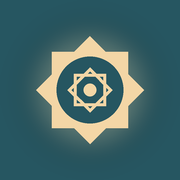
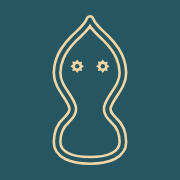
Add files via upload

Changed region(s): [[0.1944, 0.0833, 0.8056, 0.9167]]

diff --git a/index.html b/index.html
@@ -303,6 +303,9 @@ textarea{min-height:96px;resize:vertical}
 .notif .t{flex:1;min-width:0}
 .notif small{display:block;color:var(--muted);font-size:12px}
 .hud-rng{display:flex;flex-wrap:wrap;align-items:center;gap:8px 10px;margin-top:10px}
+.rtabs{display:grid;grid-template-columns:repeat(3,1fr);gap:4px;background:var(--chip);border-radius:12px;padding:4px;margin:0 0 16px}
+.rtabs button{border:0;background:none;color:var(--chip-ink);font-family:var(--f);font-size:14px;padding:9px 4px;border-radius:9px;cursor:pointer}
+.rtabs button.on{background:var(--card);color:var(--ink);font-weight:600;box-shadow:0 1px 4px rgba(23,63,72,.12)}
 .mh-card .mh-q{display:block;font-weight:600;margin:6px 0 6px;color:var(--ink)}
 .mh-card textarea{min-height:84px}
 .mh-past{border-top:1px solid var(--card-line);padding:10px 14px}.mh-past:first-child{border-top:0}
@@ -404,6 +407,9 @@ document.documentElement.setAttribute('dir','rtl');
 const ADHKAR={"open": {"k": "d", "t": "اللَّهُمَّ صَلِّ عَلَى مُحَمَّدٍ وَعَلَى آلِ مُحَمَّدٍ، كَمَا صَلَّيْتَ عَلَى إِبْرَاهِيمَ وَعَلَى آلِ إِبْرَاهِيمَ؛ إِنَّكَ حَمِيدٌ مَجِيدٌ، اللَّهُمَّ بَارِكْ عَلَى مُحَمَّدٍ وَعَلَى آلِ مُحَمَّدٍ، كَمَا بَارَكْتَ عَلَى إِبْرَاهِيمَ وَعَلَى آلِ إِبْرَاهِيمَ؛ إِنَّكَ حَمِيدٌ مَجِيدٌ", "n": 10, "s": "الاستهلال بالصلاة الإبراهيمية"}, "quran": [{"k": "q", "t": "بِسۡمِ ٱللَّهِ ٱلرَّحۡمَٰنِ ٱلرَّحِيمِ <span class=\"ay\">﴿1﴾</span> ٱلۡحَمۡدُ لِلَّهِ رَبِّ ٱلۡعَٰلَمِينَ <span class=\"ay\">﴿2﴾</span> ٱلرَّحۡمَٰنِ ٱلرَّحِيمِ <span class=\"ay\">﴿3﴾</span> مَٰلِكِ يَوۡمِ ٱلدِّينِ <span class=\"ay\">﴿4﴾</span> إِيَّاكَ نَعۡبُدُ وَإِيَّاكَ نَسۡتَعِينُ <span class=\"ay\">﴿5﴾</span> ٱهۡدِنَا ٱلصِّرَٰطَ ٱلۡمُسۡتَقِيمَ <span class=\"ay\">﴿6﴾</span> صِرَٰطَ ٱلَّذِينَ أَنۡعَمۡتَ عَلَيۡهِمۡ غَيۡرِ ٱلۡمَغۡضُوبِ عَلَيۡهِمۡ وَلَا ٱلضَّآلِّينَ <span class=\"ay\">﴿7﴾</span>", "n": 1, "s": "سورة الفاتحة"}, {"k": "q", "t": "<span class=\"bas\">بِسۡمِ ٱللَّهِ ٱلرَّحۡمَٰنِ ٱلرَّحِيمِ</span>الٓمٓ <span class=\"ay\">﴿1﴾</span> ذَٰلِكَ ٱلۡكِتَٰبُ لَا رَيۡبَۛ فِيهِۛ هُدٗى لِّلۡمُتَّقِينَ <span class=\"ay\">﴿2﴾</span> ٱلَّذِينَ يُؤۡمِنُونَ بِٱلۡغَيۡبِ وَيُقِيمُونَ ٱلصَّلَوٰةَ وَمِمَّا رَزَقۡنَٰهُمۡ يُنفِقُونَ <span class=\"ay\">﴿3﴾</span> وَٱلَّذِينَ يُؤۡمِنُونَ بِمَآ أُنزِلَ إِلَيۡكَ وَمَآ أُنزِلَ مِن قَبۡلِكَ وَبِٱلۡأٓخِرَةِ هُمۡ يُوقِنُونَ <span class=\"ay\">﴿4﴾</span> أُوْلَـٰٓئِكَ عَلَىٰ هُدٗى مِّن رَّبِّهِمۡۖ وَأُوْلَـٰٓئِكَ هُمُ ٱلۡمُفۡلِحُونَ <span class=\"ay\">﴿5﴾</span>", "n": 1, "s": "البقرة 1–5"}, {"k": "q", "t": "ٱللَّهُ لَآ إِلَٰهَ إِلَّا هُوَ ٱلۡحَيُّ ٱلۡقَيُّومُۚ لَا تَأۡخُذُهُۥ سِنَةٞ وَلَا نَوۡمٞۚ لَّهُۥ مَا فِي ٱلسَّمَٰوَٰتِ وَمَا فِي ٱلۡأَرۡضِۗ مَن ذَا ٱلَّذِي يَشۡفَعُ عِندَهُۥٓ إِلَّا بِإِذۡنِهِۦۚ يَعۡلَمُ مَا بَيۡنَ أَيۡدِيهِمۡ وَمَا خَلۡفَهُمۡۖ وَلَا يُحِيطُونَ بِشَيۡءٖ مِّنۡ عِلۡمِهِۦٓ إِلَّا بِمَا شَآءَۚ وَسِعَ كُرۡسِيُّهُ ٱلسَّمَٰوَٰتِ وَٱلۡأَرۡضَۖ وَلَا يَـُٔودُهُۥ حِفۡظُهُمَاۚ وَهُوَ ٱلۡعَلِيُّ ٱلۡعَظِيمُ <span class=\"ay\">﴿255﴾</span> لَآ إِكۡرَاهَ فِي ٱلدِّينِۖ قَد تَّبَيَّنَ ٱلرُّشۡدُ مِنَ ٱلۡغَيِّۚ فَمَن يَكۡفُرۡ بِٱلطَّـٰغُوتِ وَيُؤۡمِنۢ بِٱللَّهِ فَقَدِ ٱسۡتَمۡسَكَ بِٱلۡعُرۡوَةِ ٱلۡوُثۡقَىٰ لَا ٱنفِصَامَ لَهَاۗ وَٱللَّهُ سَمِيعٌ عَلِيمٌ <span class=\"ay\">﴿256﴾</span> ٱللَّهُ وَلِيُّ ٱلَّذِينَ ءَامَنُواْ يُخۡرِجُهُم مِّنَ ٱلظُّلُمَٰتِ إِلَى ٱلنُّورِۖ وَٱلَّذِينَ كَفَرُوٓاْ أَوۡلِيَآؤُهُمُ ٱلطَّـٰغُوتُ يُخۡرِجُونَهُم مِّنَ ٱلنُّورِ إِلَى ٱلظُّلُمَٰتِۗ أُوْلَـٰٓئِكَ أَصۡحَٰبُ ٱلنَّارِۖ هُمۡ فِيهَا خَٰلِدُونَ <span class=\"ay\">﴿257﴾</span>", "n": 1, "s": "آية الكرسي والآيتان بعدها · البقرة 255–257"}, {"k": "q", "t": "لِّلَّهِ مَا فِي ٱلسَّمَٰوَٰتِ وَمَا فِي ٱلۡأَرۡضِۗ وَإِن تُبۡدُواْ مَا فِيٓ أَنفُسِكُمۡ أَوۡ تُخۡفُوهُ يُحَاسِبۡكُم بِهِ ٱللَّهُۖ فَيَغۡفِرُ لِمَن يَشَآءُ وَيُعَذِّبُ مَن يَشَآءُۗ وَٱللَّهُ عَلَىٰ كُلِّ شَيۡءٖ قَدِيرٌ <span class=\"ay\">﴿284﴾</span> ءَامَنَ ٱلرَّسُولُ بِمَآ أُنزِلَ إِلَيۡهِ مِن رَّبِّهِۦ وَٱلۡمُؤۡمِنُونَۚ كُلٌّ ءَامَنَ بِٱللَّهِ وَمَلَـٰٓئِكَتِهِۦ وَكُتُبِهِۦ وَرُسُلِهِۦ لَا نُفَرِّقُ بَيۡنَ أَحَدٖ مِّن رُّسُلِهِۦۚ وَقَالُواْ سَمِعۡنَا وَأَطَعۡنَاۖ غُفۡرَانَكَ رَبَّنَا وَإِلَيۡكَ ٱلۡمَصِيرُ <span class=\"ay\">﴿285﴾</span> لَا يُكَلِّفُ ٱللَّهُ نَفۡسًا إِلَّا وُسۡعَهَاۚ لَهَا مَا كَسَبَتۡ وَعَلَيۡهَا مَا ٱكۡتَسَبَتۡۗ رَبَّنَا لَا تُؤَاخِذۡنَآ إِن نَّسِينَآ أَوۡ أَخۡطَأۡنَاۚ رَبَّنَا وَلَا تَحۡمِلۡ عَلَيۡنَآ إِصۡرٗا كَمَا حَمَلۡتَهُۥ عَلَى ٱلَّذِينَ مِن قَبۡلِنَاۚ رَبَّنَا وَلَا تُحَمِّلۡنَا مَا لَا طَاقَةَ لَنَا بِهِۦۖ وَٱعۡفُ عَنَّا وَٱغۡفِرۡ لَنَا وَٱرۡحَمۡنَآۚ أَنتَ مَوۡلَىٰنَا فَٱنصُرۡنَا عَلَى ٱلۡقَوۡمِ ٱلۡكَٰفِرِينَ <span class=\"ay\">﴿286﴾</span>", "n": 1, "s": "خواتيم البقرة · 284–286"}, {"k": "q", "t": "شَهِدَ ٱللَّهُ أَنَّهُۥ لَآ إِلَٰهَ إِلَّا هُوَ وَٱلۡمَلَـٰٓئِكَةُ وَأُوْلُواْ ٱلۡعِلۡمِ قَآئِمَۢا بِٱلۡقِسۡطِۚ لَآ إِلَٰهَ إِلَّا هُوَ ٱلۡعَزِيزُ ٱلۡحَكِيمُ <span class=\"ay\">﴿18﴾</span> إِنَّ ٱلدِّينَ عِندَ ٱللَّهِ ٱلۡإِسۡلَٰمُۗ <span class=\"ay\">…</span>", "n": 1, "s": "آل عمران 18–19"}, {"k": "q", "t": "حَسۡبِيَ ٱللَّهُ لَآ إِلَٰهَ إِلَّا هُوَۖ عَلَيۡهِ تَوَكَّلۡتُۖ وَهُوَ رَبُّ ٱلۡعَرۡشِ ٱلۡعَظِيمِ <span class=\"ay\">﴿129﴾</span>", "n": 7, "s": "التوبة 129"}, {"k": "q", "t": "قُلِ ٱدۡعُواْ ٱللَّهَ أَوِ ٱدۡعُواْ ٱلرَّحۡمَٰنَۖ أَيّٗا مَّا تَدۡعُواْ فَلَهُ ٱلۡأَسۡمَآءُ ٱلۡحُسۡنَىٰۚ وَلَا تَجۡهَرۡ بِصَلَاتِكَ وَلَا تُخَافِتۡ بِهَا وَٱبۡتَغِ بَيۡنَ ذَٰلِكَ سَبِيلٗا <span class=\"ay\">﴿110﴾</span> وَقُلِ ٱلۡحَمۡدُ لِلَّهِ ٱلَّذِي لَمۡ يَتَّخِذۡ وَلَدٗا وَلَمۡ يَكُن لَّهُۥ شَرِيكٞ فِي ٱلۡمُلۡكِ وَلَمۡ يَكُن لَّهُۥ وَلِيّٞ مِّنَ ٱلذُّلِّۖ وَكَبِّرۡهُ تَكۡبِيرَۢا <span class=\"ay\">﴿111﴾</span>", "n": 3, "s": "الإسراء 110–111"}, {"k": "q", "t": "أَفَحَسِبۡتُمۡ أَنَّمَا خَلَقۡنَٰكُمۡ عَبَثٗا وَأَنَّكُمۡ إِلَيۡنَا لَا تُرۡجَعُونَ <span class=\"ay\">﴿115﴾</span> فَتَعَٰلَى ٱللَّهُ ٱلۡمَلِكُ ٱلۡحَقُّۖ لَآ إِلَٰهَ إِلَّا هُوَ رَبُّ ٱلۡعَرۡشِ ٱلۡكَرِيمِ <span class=\"ay\">﴿116﴾</span> وَمَن يَدۡعُ مَعَ ٱللَّهِ إِلَٰهًا ءَاخَرَ لَا بُرۡهَٰنَ لَهُۥ بِهِۦ فَإِنَّمَا حِسَابُهُۥ عِندَ رَبِّهِۦٓۚ إِنَّهُۥ لَا يُفۡلِحُ ٱلۡكَٰفِرُونَ <span class=\"ay\">﴿117﴾</span> وَقُل رَّبِّ ٱغۡفِرۡ وَٱرۡحَمۡ وَأَنتَ خَيۡرُ ٱلرَّـٰحِمِينَ <span class=\"ay\">﴿118﴾</span>", "n": 1, "s": "المؤمنون 115–118"}, {"k": "q", "t": "فَسُبۡحَٰنَ ٱللَّهِ حِينَ تُمۡسُونَ وَحِينَ تُصۡبِحُونَ <span class=\"ay\">﴿17﴾</span> وَلَهُ ٱلۡحَمۡدُ فِي ٱلسَّمَٰوَٰتِ وَٱلۡأَرۡضِ وَعَشِيّٗا وَحِينَ تُظۡهِرُونَ <span class=\"ay\">﴿18﴾</span> يُخۡرِجُ ٱلۡحَيَّ مِنَ ٱلۡمَيِّتِ وَيُخۡرِجُ ٱلۡمَيِّتَ مِنَ ٱلۡحَيِّ وَيُحۡيِ ٱلۡأَرۡضَ بَعۡدَ مَوۡتِهَاۚ وَكَذَٰلِكَ تُخۡرَجُونَ <span class=\"ay\">﴿19﴾</span>", "n": 3, "s": "الروم 17–19"}, {"k": "q", "t": "<span class=\"bas\">بِسۡمِ ٱللَّهِ ٱلرَّحۡمَٰنِ ٱلرَّحِيمِ</span>حمٓ <span class=\"ay\">﴿1﴾</span> تَنزِيلُ ٱلۡكِتَٰبِ مِنَ ٱللَّهِ ٱلۡعَزِيزِ ٱلۡعَلِيمِ <span class=\"ay\">﴿2﴾</span> غَافِرِ ٱلذَّنۢبِ وَقَابِلِ ٱلتَّوۡبِ شَدِيدِ ٱلۡعِقَابِ ذِي ٱلطَّوۡلِۖ لَآ إِلَٰهَ إِلَّا هُوَۖ إِلَيۡهِ ٱلۡمَصِيرُ <span class=\"ay\">﴿3﴾</span>", "n": 3, "s": "غافر 1–3"}, {"k": "q", "t": "ٱللَّهُ لَآ إِلَٰهَ إِلَّا هُوَ ٱلۡحَيُّ ٱلۡقَيُّومُۚ لَا تَأۡخُذُهُۥ سِنَةٞ وَلَا نَوۡمٞۚ لَّهُۥ مَا فِي ٱلسَّمَٰوَٰتِ وَمَا فِي ٱلۡأَرۡضِۗ مَن ذَا ٱلَّذِي يَشۡفَعُ عِندَهُۥٓ إِلَّا بِإِذۡنِهِۦۚ يَعۡلَمُ مَا بَيۡنَ أَيۡدِيهِمۡ وَمَا خَلۡفَهُمۡۖ وَلَا يُحِيطُونَ بِشَيۡءٖ مِّنۡ عِلۡمِهِۦٓ إِلَّا بِمَا شَآءَۚ وَسِعَ كُرۡسِيُّهُ ٱلسَّمَٰوَٰتِ وَٱلۡأَرۡضَۖ وَلَا يَـُٔودُهُۥ حِفۡظُهُمَاۚ وَهُوَ ٱلۡعَلِيُّ ٱلۡعَظِيمُ <span class=\"ay\">﴿255﴾</span>", "n": 1, "s": "آية الكرسي · البقرة 255"}, {"k": "d", "t": "أَعُوذُ بِاللَّهِ السَّمِيعِ الْعَلِيمِ مِنَ الشَّيْطَانِ الرَّجِيمِ", "n": 3, "s": "الاستعاذة"}, {"k": "q", "t": "هُوَ ٱللَّهُ ٱلَّذِي لَآ إِلَٰهَ إِلَّا هُوَۖ عَٰلِمُ ٱلۡغَيۡبِ وَٱلشَّهَٰدَةِۖ هُوَ ٱلرَّحۡمَٰنُ ٱلرَّحِيمُ <span class=\"ay\">﴿22﴾</span> هُوَ ٱللَّهُ ٱلَّذِي لَآ إِلَٰهَ إِلَّا هُوَ ٱلۡمَلِكُ ٱلۡقُدُّوسُ ٱلسَّلَٰمُ ٱلۡمُؤۡمِنُ ٱلۡمُهَيۡمِنُ ٱلۡعَزِيزُ ٱلۡجَبَّارُ ٱلۡمُتَكَبِّرُۚ سُبۡحَٰنَ ٱللَّهِ عَمَّا يُشۡرِكُونَ <span class=\"ay\">﴿23﴾</span> هُوَ ٱللَّهُ ٱلۡخَٰلِقُ ٱلۡبَارِئُ ٱلۡمُصَوِّرُۖ لَهُ ٱلۡأَسۡمَآءُ ٱلۡحُسۡنَىٰۚ يُسَبِّحُ لَهُۥ مَا فِي ٱلسَّمَٰوَٰتِ وَٱلۡأَرۡضِۖ وَهُوَ ٱلۡعَزِيزُ ٱلۡحَكِيمُ <span class=\"ay\">﴿24﴾</span>", "n": 1, "s": "الحشر 22–24"}, {"k": "q", "t": "<span class=\"sn\">سورة الإخلاص</span><span class=\"bas\">بِسۡمِ ٱللَّهِ ٱلرَّحۡمَٰنِ ٱلرَّحِيمِ</span>قُلۡ هُوَ ٱللَّهُ أَحَدٌ <span class=\"ay\">﴿1﴾</span> ٱللَّهُ ٱلصَّمَدُ <span class=\"ay\">﴿2﴾</span> لَمۡ يَلِدۡ وَلَمۡ يُولَدۡ <span class=\"ay\">﴿3﴾</span> وَلَمۡ يَكُن لَّهُۥ كُفُوًا أَحَدُۢ <span class=\"ay\">﴿4﴾</span><br><span class=\"sn\">سورة الفلق</span><span class=\"bas\">بِسۡمِ ٱللَّهِ ٱلرَّحۡمَٰنِ ٱلرَّحِيمِ</span>قُلۡ أَعُوذُ بِرَبِّ ٱلۡفَلَقِ <span class=\"ay\">﴿1﴾</span> مِن شَرِّ مَا خَلَقَ <span class=\"ay\">﴿2﴾</span> وَمِن شَرِّ غَاسِقٍ إِذَا وَقَبَ <span class=\"ay\">﴿3﴾</span> وَمِن شَرِّ ٱلنَّفَّـٰثَٰتِ فِي ٱلۡعُقَدِ <span class=\"ay\">﴿4﴾</span> وَمِن شَرِّ حَاسِدٍ إِذَا حَسَدَ <span class=\"ay\">﴿5﴾</span><br><span class=\"sn\">سورة الناس</span><span class=\"bas\">بِسۡمِ ٱللَّهِ ٱلرَّحۡمَٰنِ ٱلرَّحِيمِ</span>قُلۡ أَعُوذُ بِرَبِّ ٱلنَّاسِ <span class=\"ay\">﴿1﴾</span> مَلِكِ ٱلنَّاسِ <span class=\"ay\">﴿2﴾</span> إِلَٰهِ ٱلنَّاسِ <span class=\"ay\">﴿3﴾</span> مِن شَرِّ ٱلۡوَسۡوَاسِ ٱلۡخَنَّاسِ <span class=\"ay\">﴿4﴾</span> ٱلَّذِي يُوَسۡوِسُ فِي صُدُورِ ٱلنَّاسِ <span class=\"ay\">﴿5﴾</span> مِنَ ٱلۡجِنَّةِ وَٱلنَّاسِ <span class=\"ay\">﴿6﴾</span>", "n": 3, "s": "المعوّذات: الإخلاص والفلق والناس"}], "sabah": [{"k": "s", "t": "رَضِيتُ بِاللَّهِ رَبًّا، وَبِالْإِسْلَامِ دِينًا، وَبِمُحَمَّدٍ ﷺ نَبِيًّا", "n": 3}, {"k": "s", "t": "بِسْمِ اللَّهِ الَّذِي لَا يَضُرُّ مَعَ اسْمِهِ شَيْءٌ فِي الْأَرْضِ وَلَا فِي السَّمَاءِ، وَهُوَ السَّمِيعُ الْعَلِيمُ", "n": 3}, {"k": "s", "t": "اللَّهُمَّ أَنْتَ رَبِّي لَا إِلَهَ إِلَّا أَنْتَ، عَلَيْكَ تَوَكَّلْتُ، وَأَنْتَ رَبُّ الْعَرْشِ الْعَظِيمِ، مَا شَاءَ اللَّهُ كَانَ وَمَا لَمْ يَشَأْ لَمْ يَكُنْ، لَا حَوْلَ وَلَا قُوَّةَ إِلَّا بِاللَّهِ الْعَلِيِّ الْعَظِيمِ، أَعْلَمُ أَنَّ اللَّهَ عَلَى كُلِّ شَيْءٍ قَدِيرٌ، وَأَنَّ اللَّهَ قَدْ أَحَاطَ بِكُلِّ شَيْءٍ عِلْمًا، اللَّهُمَّ إِنِّي أَعُوذُ بِكَ مِنْ شَرِّ نَفْسِي، وَمِنْ شَرِّ كُلِّ دَابَّةٍ أَنْتَ آخِذٌ بِنَاصِيَتِهَا، إِنَّ رَبِّي عَلَى صِرَاطٍ مُسْتَقِيمٍ", "n": 1}, {"k": "s", "t": "أَصْبَحْنَا وَأَصْبَحَ الْمُلْكُ لِلَّهِ وَالْحَمْدُ لِلَّهِ، لَا إِلَهَ إِلَّا اللَّهُ وَحْدَهُ لَا شَرِيكَ لَهُ، لَهُ الْمُلْكُ وَلَهُ الْحَمْدُ وَهُوَ عَلَى كُلِّ شَيْءٍ قَدِيرٌ، رَبِّ أَسْأَلُكَ خَيْرَ مَا فِي هَذَا الْيَوْمِ وَخَيْرَ مَا بَعْدَهُ، وَأَعُوذُ بِكَ مِنْ شَرِّ مَا فِي هَذَا الْيَوْمِ وَشَرِّ مَا بَعْدَهُ، رَبِّ أَعُوذُ بِكَ مِنَ الْكَسَلِ وَسُوءِ الْكِبَرِ، رَبِّ أَعُوذُ بِكَ مِنْ عَذَابٍ فِي النَّارِ وَعَذَابٍ فِي الْقَبْرِ", "n": 3}, {"k": "s", "t": "أَصْبَحْنَا وَأَصْبَحَ الْمُلْكُ لِلَّهِ رَبِّ الْعَالَمِينَ، اللَّهُمَّ إِنِّي أَسْأَلُكَ خَيْرَ هَذَا الْيَوْمِ فَتْحَهُ وَنَصْرَهُ وَنُورَهُ وَبَرَكَتَهُ وَهُدَاهُ، وَأَعُوذُ بِكَ مِنْ شَرِّ مَا فِيهِ وَشَرِّ مَا بَعْدَهُ", "n": 3}, {"k": "s", "t": "اللَّهُمَّ بِكَ أَصْبَحْنَا، وَبِكَ أَمْسَيْنَا، وَبِكَ نَحْيَا، وَبِكَ نَمُوتُ، وَإِلَيْكَ النُّشُورُ", "n": 3}, {"k": "s", "t": "اللَّهُمَّ مَا أَصْبَحَ بِي مِنْ نِعْمَةٍ أَوْ بِأَحَدٍ مِنْ خَلْقِكَ فَمِنْكَ وَحْدَكَ لَا شَرِيكَ لَكَ، فَلَكَ الْحَمْدُ وَلَكَ الشُّكْرُ", "n": 3}, {"k": "s", "t": "اللَّهُمَّ إِنِّي أَصْبَحْتُ أُشْهِدُكَ وَأُشْهِدُ حَمَلَةَ عَرْشِكَ، وَمَلَائِكَتَكَ وَجَمِيعَ خَلْقِكَ، بِأَنَّكَ أَنْتَ اللَّهُ لَا إِلَهَ إِلَّا أَنْتَ وَحْدَكَ لَا شَرِيكَ لَكَ، وَأَنَّ مُحَمَّدًا عَبْدُكَ وَرَسُولُكَ", "n": 4}, {"k": "s", "t": "اللَّهُمَّ إِنِّي أَسْأَلُكَ الْعَفْوَ وَالْعَافِيَةَ فِي الدُّنْيَا وَالْآخِرَةِ، اللَّهُمَّ إِنِّي أَسْأَلُكَ الْعَفْوَ وَالْعَافِيَةَ فِي دِينِي وَدُنْيَايَ وَأَهْلِي وَمَالِي، اللَّهُمَّ اسْتُرْ عَوْرَاتِي، وَآمِنْ رَوْعَاتِي، اللَّهُمَّ احْفَظْنِي مِنْ بَيْنِ يَدَيَّ، وَمِنْ خَلْفِي، وَعَنْ يَمِينِي، وَعَنْ شِمَالِي، وَمِنْ فَوْقِي، وَأَعُوذُ بِعَظَمَتِكَ أَنْ أُغْتَالَ مِنْ تَحْتِي", "n": 3}, {"k": "s", "t": "اللَّهُمَّ أَنْتَ رَبِّي لَا إِلَهَ إِلَّا أَنْتَ، خَلَقْتَنِي وَأَنَا عَبْدُكَ، وَأَنَا عَلَى عَهْدِكَ وَوَعْدِكَ مَا اسْتَطَعْتُ، أَعُوذُ بِكَ مِنْ شَرِّ مَا صَنَعْتُ، أَبُوءُ لَكَ بِنِعْمَتِكَ عَلَيَّ، وَأَبُوءُ لَكَ بِذَنْبِي فَاغْفِرْ لِي؛ فَإِنَّهُ لَا يَغْفِرُ الذُّنُوبَ إِلَّا أَنْتَ", "n": 3}, {"k": "s", "t": "أَصْبَحْنَا عَلَى فِطْرَةِ الْإِسْلَامِ، وَعَلَى كَلِمَةِ الْإِخْلَاصِ، وَعَلَى دِينِ نَبِيِّنَا مُحَمَّدٍ صَلَّى اللَّهُ عَلَيْهِ وَسَلَّمَ، وَعَلَى مِلَّةِ أَبِينَا إِبْرَاهِيمَ، حَنِيفًا مُسْلِمًا، وَمَا كَانَ مِنَ الْمُشْرِكِينَ", "n": 3}, {"k": "s", "t": "اللَّهُمَّ إِنِّي أَصْبَحْتُ مِنْكَ فِي نِعْمَةٍ وَعَافِيَةٍ وَسِتْرٍ، فَأَتْمِمْ عَلَيَّ نِعْمَتَكَ وَعَافِيَتَكَ وَسِتْرَكَ فِي الدُّنْيَا وَالْآخِرَةِ", "n": 3}, {"k": "s", "t": "اللَّهُمَّ فَاطِرَ السَّمَاوَاتِ وَالْأَرْضِ، عَالِمَ الْغَيْبِ وَالشَّهَادَةِ، لَا إِلَهَ إِلَّا أَنْتَ، رَبَّ كُلِّ شَيْءٍ وَمَلِيكَهُ، أَعُوذُ بِكَ مِنْ شَرِّ نَفْسِي وَمِنْ شَرِّ الشَّيْطَانِ وَشِرْكِهِ، وَأَنْ أَقْتَرِفَ عَلَى نَفْسِي سُوءًا أَوْ أَجُرَّهُ إِلَى مُسْلِمٍ", "n": 3}, {"k": "s", "t": "سُبْحَانَ اللَّهِ وَبِحَمْدِهِ عَدَدَ خَلْقِهِ، وَرِضَا نَفْسِهِ، وَزِنَةَ عَرْشِهِ، وَمِدَادَ كَلِمَاتِهِ", "n": 3}, {"k": "s", "t": "يَا رَبِّ لَكَ الْحَمْدُ كَمَا يَنْبَغِي لِجَلَالِ وَجْهِكَ وَلِعَظِيمِ سُلْطَانِكَ", "n": 3}, {"k": "s", "t": "يَا حَيُّ يَا قَيُّومُ بِرَحْمَتِكَ أَسْتَغِيثُ، أَصْلِحْ لِي شَأْنِي كُلَّهُ، وَلَا تَكِلْنِي إِلَى نَفْسِي طَرْفَةَ عَيْنٍ", "n": 3}, {"k": "s", "t": "سُبْحَانَكَ اللَّهُمَّ وَبِحَمْدِكَ، أَشْهَدُ أَنْ لَا إِلَهَ إِلَّا أَنْتَ، أَسْتَغْفِرُكَ وَأَتُوبُ إِلَيْكَ", "n": 3}, {"k": "s", "t": "اللَّهُمَّ عَافِنِي فِي بَدَنِي، اللَّهُمَّ عَافِنِي فِي سَمْعِي، اللَّهُمَّ عَافِنِي فِي بَصَرِي، لَا إِلَهَ إِلَّا أَنْتَ", "n": 3}, {"k": "s", "t": "اللَّهُمَّ إِنِّي أَعُوذُ بِكَ مِنَ الْكُفْرِ وَالْفَقْرِ، اللَّهُمَّ إِنِّي أَعُوذُ بِكَ مِنْ عَذَابِ الْقَبْرِ، لَا إِلَهَ إِلَّا أَنْتَ", "n": 3}, {"k": "s", "t": "اللَّهُمَّ أَلْهِمْنِي رُشْدِي، وَأَعِذْنِي مِنْ شَرِّ نَفْسِي", "n": 3}, {"k": "s", "t": "اللَّهُمَّ إِنِّي أَعُوذُ بِكَ مِنَ الْهَمِّ وَالْحَزَنِ، وَأَعُوذُ بِكَ مِنَ الْعَجْزِ وَالْكَسَلِ، وَأَعُوذُ بِكَ مِنَ الْجُبْنِ وَالْبُخْلِ، وَأَعُوذُ بِكَ مِنْ غَلَبَةِ الدَّيْنِ، وَقَهْرِ الرِّجَالِ", "n": 3}, {"k": "s", "t": "اللَّهُمَّ إِنِّي أَعُوذُ بِكَ أَنْ أُشْرِكَ بِكَ وَأَنَا أَعْلَمُ، وَأَسْتَغْفِرُكَ لِمَا لَا أَعْلَمُ", "n": 3}, {"k": "s", "t": "سُبْحَانَ اللَّهِ الْعَظِيمِ وَبِحَمْدِهِ، وَلَا حَوْلَ وَلَا قُوَّةَ إِلَّا بِاللَّهِ", "n": 3}, {"k": "s", "t": "اللَّهُ أَكْبَرُ، اللَّهُ أَكْبَرُ، اللَّهُ أَكْبَرُ، بِسْمِ اللَّهِ عَلَى نَفْسِي وَدِينِي، بِسْمِ اللَّهِ عَلَى كُلِّ شَيْءٍ أَعْطَانِيهِ رَبِّي، بِسْمِ اللَّهِ خَيْرِ الْأَسْمَاءِ، بِسْمِ اللَّهِ الَّذِي لَا يَضُرُّ مَعَ اسْمِهِ شَيْءٌ فِي الْأَرْضِ وَلَا فِي السَّمَاءِ، بِسْمِ اللَّهِ افْتَتَحْتُ وَعَلَى اللَّهِ تَوَكَّلْتُ، اللَّهُ اللَّهُ رَبِّي لَا أُشْرِكُ بِهِ أَحَدًا، أَسْأَلُكَ اللَّهُمَّ بِخَيْرِكَ مِنْ خَيْرِكَ الَّذِي لَا يُعْطِيهِ أَحَدٌ غَيْرُكَ، عَزَّ جَارُكَ وَجَلَّ ثَنَاؤُكَ وَلَا إِلَهَ غَيْرُكَ، اجْعَلْنِي فِي عِيَاذِكَ مِنْ شَرِّ كُلِّ سُلْطَانٍ وَمِنَ الشَّيْطَانِ الرَّجِيمِ، اللَّهُمَّ إِنِّي أَحْتَرِسُ بِكَ مِنْ شَرِّ جَمِيعِ كُلِّ ذِي شَرٍّ خَلَقْتَهُ، وَأَحْتَرِزُ بِكَ مِنْهُمْ، وَأُقَدِّمُ بَيْنَ يَدَيَّ: بِسْمِ اللَّهِ الرَّحْمَنِ الرَّحِيمِ ﴿قُلْ هُوَ اللَّهُ أَحَدٌ * اللَّهُ الصَّمَدُ * لَمْ يَلِدْ وَلَمْ يُولَدْ * وَلَمْ يَكُنْ لَهُ كُفُوًا أَحَدٌ﴾، وَمِنْ خَلْفِي مِثْلَ ذَلِكَ، وَعَنْ يَمِينِي مِثْلَ ذَلِكَ، وَعَنْ يَسَارِي مِثْلَ ذَلِكَ، وَمِنْ فَوْقِي مِثْلَ ذَلِكَ", "n": 1}], "masa": [{"k": "s", "t": "رَضِيتُ بِاللَّهِ رَبًّا، وَبِالْإِسْلَامِ دِينًا، وَبِمُحَمَّدٍ ﷺ نَبِيًّا", "n": 3}, {"k": "s", "t": "بِسْمِ اللَّهِ الَّذِي لَا يَضُرُّ مَعَ اسْمِهِ شَيْءٌ فِي الْأَرْضِ وَلَا فِي السَّمَاءِ، وَهُوَ السَّمِيعُ الْعَلِيمُ", "n": 3}, {"k": "s", "t": "اللَّهُمَّ أَنْتَ رَبِّي لَا إِلَهَ إِلَّا أَنْتَ، عَلَيْكَ تَوَكَّلْتُ، وَأَنْتَ رَبُّ الْعَرْشِ الْعَظِيمِ، مَا شَاءَ اللَّهُ كَانَ وَمَا لَمْ يَشَأْ لَمْ يَكُنْ، لَا حَوْلَ وَلَا قُوَّةَ إِلَّا بِاللَّهِ الْعَلِيِّ الْعَظِيمِ، أَعْلَمُ أَنَّ اللَّهَ عَلَى كُلِّ شَيْءٍ قَدِيرٌ، وَأَنَّ اللَّهَ قَدْ أَحَاطَ بِكُلِّ شَيْءٍ عِلْمًا، اللَّهُمَّ إِنِّي أَعُوذُ بِكَ مِنْ شَرِّ نَفْسِي، وَمِنْ شَرِّ كُلِّ دَابَّةٍ أَنْتَ آخِذٌ بِنَاصِيَتِهَا، إِنَّ رَبِّي عَلَى صِرَاطٍ مُسْتَقِيمٍ", "n": 1}, {"k": "s", "t": "أَمْسَيْنَا وَأَمْسَى الْمُلْكُ لِلَّهِ وَالْحَمْدُ لِلَّهِ، لَا إِلَهَ إِلَّا اللَّهُ وَحْدَهُ لَا شَرِيكَ لَهُ، لَهُ الْمُلْكُ وَلَهُ الْحَمْدُ وَهُوَ عَلَى كُلِّ شَيْءٍ قَدِيرٌ، رَبِّ أَسْأَلُكَ خَيْرَ مَا فِي هَذِهِ اللَّيْلَةِ وَخَيْرَ مَا بَعْدَهَا، وَأَعُوذُ بِكَ مِنْ شَرِّ مَا فِي هَذِهِ اللَّيْلَةِ وَشَرِّ مَا بَعْدَهَا، رَبِّ أَعُوذُ بِكَ مِنَ الْكَسَلِ وَسُوءِ الْكِبَرِ، رَبِّ أَعُوذُ بِكَ مِنْ عَذَابٍ فِي النَّارِ وَعَذَابٍ فِي الْقَبْرِ", "n": 3}, {"k": "s", "t": "أَمْسَيْنَا وَأَمْسَى الْمُلْكُ لِلَّهِ رَبِّ الْعَالَمِينَ، اللَّهُمَّ إِنِّي أَسْأَلُكَ خَيْرَ هَذَا الْيَوْمِ فَتْحَهُ وَنَصْرَهُ وَنُورَهُ وَبَرَكَتَهُ وَهُدَاهُ، وَأَعُوذُ بِكَ مِنْ شَرِّ مَا فِيهِ وَشَرِّ مَا بَعْدَهُ", "n": 3}, {"k": "s", "t": "اللَّهُمَّ بِكَ أَمْسَيْنَا، وَبِكَ أَصْبَحْنَا، وَبِكَ نَحْيَا، وَبِكَ نَمُوتُ، وَإِلَيْكَ الْمَصِيرُ", "n": 3}, {"k": "s", "t": "اللَّهُمَّ مَا أَمْسَى بِي مِنْ نِعْمَةٍ أَوْ بِأَحَدٍ مِنْ خَلْقِكَ فَمِنْكَ وَحْدَكَ لَا شَرِيكَ لَكَ، فَلَكَ الْحَمْدُ وَلَكَ الشُّكْرُ", "n": 3}, {"k": "s", "t": "اللَّهُمَّ إِنِّي أَمْسَيْتُ أُشْهِدُكَ وَأُشْهِدُ حَمَلَةَ عَرْشِكَ، وَمَلَائِكَتَكَ وَجَمِيعَ خَلْقِكَ، بِأَنَّكَ أَنْتَ اللَّهُ لَا إِلَهَ إِلَّا أَنْتَ وَحْدَكَ لَا شَرِيكَ لَكَ، وَأَنَّ مُحَمَّدًا عَبْدُكَ وَرَسُولُكَ", "n": 4}, {"k": "s", "t": "اللَّهُمَّ إِنِّي أَسْأَلُكَ الْعَفْوَ وَالْعَافِيَةَ فِي الدُّنْيَا وَالْآخِرَةِ، اللَّهُمَّ إِنِّي أَسْأَلُكَ الْعَفْوَ وَالْعَافِيَةَ فِي دِينِي وَدُنْيَايَ وَأَهْلِي وَمَالِي، اللَّهُمَّ اسْتُرْ عَوْرَاتِي، وَآمِنْ رَوْعَاتِي، اللَّهُمَّ احْفَظْنِي مِنْ بَيْنِ يَدَيَّ، وَمِنْ خَلْفِي، وَعَنْ يَمِينِي، وَعَنْ شِمَالِي، وَمِنْ فَوْقِي، وَأَعُوذُ بِعَظَمَتِكَ أَنْ أُغْتَالَ مِنْ تَحْتِي", "n": 3}, {"k": "s", "t": "اللَّهُمَّ أَنْتَ رَبِّي لَا إِلَهَ إِلَّا أَنْتَ، خَلَقْتَنِي وَأَنَا عَبْدُكَ، وَأَنَا عَلَى عَهْدِكَ وَوَعْدِكَ مَا اسْتَطَعْتُ، أَعُوذُ بِكَ مِنْ شَرِّ مَا صَنَعْتُ، أَبُوءُ لَكَ بِنِعْمَتِكَ عَلَيَّ، وَأَبُوءُ لَكَ بِذَنْبِي فَاغْفِرْ لِي؛ فَإِنَّهُ لَا يَغْفِرُ الذُّنُوبَ إِلَّا أَنْتَ", "n": 3}, {"k": "s", "t": "أَمْسَيْنَا عَلَى فِطْرَةِ الْإِسْلَامِ، وَعَلَى كَلِمَةِ الْإِخْلَاصِ، وَعَلَى دِينِ نَبِيِّنَا مُحَمَّدٍ صَلَّى اللَّهُ عَلَيْهِ وَسَلَّمَ، وَعَلَى مِلَّةِ أَبِينَا إِبْرَاهِيمَ، حَنِيفًا مُسْلِمًا، وَمَا كَانَ مِنَ الْمُشْرِكِينَ", "n": 3}, {"k": "s", "t": "اللَّهُمَّ إِنِّي أَمْسَيْتُ مِنْكَ فِي نِعْمَةٍ وَعَافِيَةٍ وَسِتْرٍ، فَأَتْمِمْ عَلَيَّ نِعْمَتَكَ وَعَافِيَتَكَ وَسِتْرَكَ فِي الدُّنْيَا وَالْآخِرَةِ", "n": 3}, {"k": "s", "t": "اللَّهُمَّ فَاطِرَ السَّمَاوَاتِ وَالْأَرْضِ، عَالِمَ الْغَيْبِ وَالشَّهَادَةِ، لَا إِلَهَ إِلَّا أَنْتَ، رَبَّ كُلِّ شَيْءٍ وَمَلِيكَهُ، أَعُوذُ بِكَ مِنْ شَرِّ نَفْسِي وَمِنْ شَرِّ الشَّيْطَانِ وَشِرْكِهِ، وَأَنْ أَقْتَرِفَ عَلَى نَفْسِي سُوءًا أَوْ أَجُرَّهُ إِلَى مُسْلِمٍ", "n": 3}, {"k": "s", "t": "سُبْحَانَ اللَّهِ وَبِحَمْدِهِ عَدَدَ خَلْقِهِ، وَرِضَا نَفْسِهِ، وَزِنَةَ عَرْشِهِ، وَمِدَادَ كَلِمَاتِهِ", "n": 3}, {"k": "s", "t": "يَا رَبِّ لَكَ الْحَمْدُ كَمَا يَنْبَغِي لِجَلَالِ وَجْهِكَ وَلِعَظِيمِ سُلْطَانِكَ", "n": 3}, {"k": "s", "t": "يَا حَيُّ يَا قَيُّومُ بِرَحْمَتِكَ أَسْتَغِيثُ، أَصْلِحْ لِي شَأْنِي كُلَّهُ، وَلَا تَكِلْنِي إِلَى نَفْسِي طَرْفَةَ عَيْنٍ", "n": 3}, {"k": "s", "t": "سُبْحَانَكَ اللَّهُمَّ وَبِحَمْدِكَ، أَشْهَدُ أَنْ لَا إِلَهَ إِلَّا أَنْتَ، أَسْتَغْفِرُكَ وَأَتُوبُ إِلَيْكَ", "n": 3}, {"k": "s", "t": "اللَّهُمَّ عَافِنِي فِي بَدَنِي، اللَّهُمَّ عَافِنِي فِي سَمْعِي، اللَّهُمَّ عَافِنِي فِي بَصَرِي، لَا إِلَهَ إِلَّا أَنْتَ", "n": 3}, {"k": "s", "t": "اللَّهُمَّ إِنِّي أَعُوذُ بِكَ مِنَ الْكُفْرِ وَالْفَقْرِ، اللَّهُمَّ إِنِّي أَعُوذُ بِكَ مِنْ عَذَابِ الْقَبْرِ، لَا إِلَهَ إِلَّا أَنْتَ", "n": 3}, {"k": "s", "t": "اللَّهُمَّ أَلْهِمْنِي رُشْدِي، وَأَعِذْنِي مِنْ شَرِّ نَفْسِي", "n": 3}, {"k": "s", "t": "اللَّهُمَّ إِنِّي أَعُوذُ بِكَ مِنَ الْهَمِّ وَالْحَزَنِ، وَأَعُوذُ بِكَ مِنَ الْعَجْزِ وَالْكَسَلِ، وَأَعُوذُ بِكَ مِنَ الْجُبْنِ وَالْبُخْلِ، وَأَعُوذُ بِكَ مِنْ غَلَبَةِ الدَّيْنِ، وَقَهْرِ الرِّجَالِ", "n": 3}, {"k": "s", "t": "اللَّهُمَّ إِنِّي أَعُوذُ بِكَ أَنْ أُشْرِكَ بِكَ وَأَنَا أَعْلَمُ، وَأَسْتَغْفِرُكَ لِمَا لَا أَعْلَمُ", "n": 3}, {"k": "s", "t": "سُبْحَانَ اللَّهِ الْعَظِيمِ وَبِحَمْدِهِ، وَلَا حَوْلَ وَلَا قُوَّةَ إِلَّا بِاللَّهِ", "n": 3}, {"k": "s", "t": "اللَّهُ أَكْبَرُ، اللَّهُ أَكْبَرُ، اللَّهُ أَكْبَرُ، بِسْمِ اللَّهِ عَلَى نَفْسِي وَدِينِي، بِسْمِ اللَّهِ عَلَى كُلِّ شَيْءٍ أَعْطَانِيهِ رَبِّي، بِسْمِ اللَّهِ خَيْرِ الْأَسْمَاءِ، بِسْمِ اللَّهِ الَّذِي لَا يَضُرُّ مَعَ اسْمِهِ شَيْءٌ فِي الْأَرْضِ وَلَا فِي السَّمَاءِ، بِسْمِ اللَّهِ افْتَتَحْتُ وَعَلَى اللَّهِ تَوَكَّلْتُ، اللَّهُ اللَّهُ رَبِّي لَا أُشْرِكُ بِهِ أَحَدًا، أَسْأَلُكَ اللَّهُمَّ بِخَيْرِكَ مِنْ خَيْرِكَ الَّذِي لَا يُعْطِيهِ أَحَدٌ غَيْرُكَ، عَزَّ جَارُكَ وَجَلَّ ثَنَاؤُكَ وَلَا إِلَهَ غَيْرُكَ، اجْعَلْنِي فِي عِيَاذِكَ مِنْ شَرِّ كُلِّ سُلْطَانٍ وَمِنَ الشَّيْطَانِ الرَّجِيمِ، اللَّهُمَّ إِنِّي أَحْتَرِسُ بِكَ مِنْ شَرِّ جَمِيعِ كُلِّ ذِي شَرٍّ خَلَقْتَهُ، وَأَحْتَرِزُ بِكَ مِنْهُمْ، وَأُقَدِّمُ بَيْنَ يَدَيَّ: بِسْمِ اللَّهِ الرَّحْمَنِ الرَّحِيمِ ﴿قُلْ هُوَ اللَّهُ أَحَدٌ * اللَّهُ الصَّمَدُ * لَمْ يَلِدْ وَلَمْ يُولَدْ * وَلَمْ يَكُنْ لَهُ كُفُوًا أَحَدٌ﴾، وَمِنْ خَلْفِي مِثْلَ ذَلِكَ، وَعَنْ يَمِينِي مِثْلَ ذَلِكَ، وَعَنْ يَسَارِي مِثْلَ ذَلِكَ، وَمِنْ فَوْقِي مِثْلَ ذَلِكَ", "n": 1}], "verse": "فَٱصۡبِرۡ عَلَىٰ مَا يَقُولُونَ وَسَبِّحۡ بِحَمۡدِ رَبِّكَ قَبۡلَ طُلُوعِ ٱلشَّمۡسِ وَقَبۡلَ ٱلۡغُرُوبِ"};
 /* ---------- i18n: exact strings  [en, fr, es, ru] ---------- */
 const I18N_D={
+"بياناتك الروحية":["Your spiritual data", "Vos données spirituelles", "Tus datos espirituales", "Ваши духовные данные"],
+"الحالة اليومية":["Daily state", "État du jour", "Estado diario", "Состояние дня"],
+"حالة القلب":["The heart", "Le cœur", "El corazón", "Сердце"],
 "تثبيت التطبيق، والتذكيرات، والخصوصية، وراسلنا":["Install the app, reminders, privacy and contact", "Installation, rappels, confidentialité et contact", "Instalación, recordatorios, privacidad y contacto", "Установка, напоминания, конфиденциальность и связь"],
 "اكتب رسالتك…":["Write your message…", "Écrivez votre message…", "Escribe tu mensaje…", "Напишите сообщение…"],
 "مثال: حفظت لساني من الغيبة في مجلس العمل، وصليت الفجر في وقته…":["E.g. I kept my tongue from backbiting at work, and prayed Fajr on time…", "Ex. : j’ai préservé ma langue de la médisance au travail, et prié l’aube à l’heure…", "Ej.: guardé mi lengua de la murmuración en el trabajo y recé el Fajr a tiempo…", "Напр.: удержал язык от сплетен на работе и вовремя совершил фаджр…"],
@@ -980,6 +986,7 @@ const I18N_D={
 };
 /* patterns: [regex, [en,fr,es,ru]] — {1}… are groups; {1t} translates the group */
 const I18N_P=[
+[/^(\d+) من 4 أنوار مضيئة · (\d+) من (\d+) مجاري مغلقة$/,["{1} of 4 lights lit · {2} of {3} channels closed","{1} lumières sur 4 · {2} canaux sur {3} fermés","{1} de 4 luces encendidas · {2} de {3} canales cerrados","{1} из 4 огней · {2} из {3} каналов закрыто"]],
 [/^زلّة مسجّلة، منها (\d+) مع سببها$/,["slips logged, {1} with a reason", "faux pas notés, dont {1} avec raison", "tropiezos registrados, {1} con motivo", "оплошностей записано, из них {1} с причиной"]],
 [/^المراقبات والمناجاة · (\d+) واردات مدوّنة$/,["Muraqabat and munajat · {1} inspirations noted", "Mouraqabat et mounajat · {1} inspirations notées", "Muraqabat y munayat · {1} inspiraciones anotadas", "Муракабат и мунаджат · записей: {1}"]],
 [/^المراقبات · (\d+) واردات مدوّنة$/,["Muraqabat · {1} inspirations noted", "Mouraqabat · {1} inspirations notées", "Muraqabat · {1} inspiraciones anotadas", "Муракабат · записей: {1}"]],
@@ -1268,7 +1275,7 @@ function viewAuth(){
    <p class="auth-privacy">تُحفظ بياناتك وتقدّمك في حسابك على خوادم Google (Firebase)، ولا يطّلع عليها أحد غيرك، حتى إدارة التطبيق.</p>
   </section>`;
 }
-const LOGO='<svg viewBox="0 0 48 48" aria-hidden="true"><rect width="48" height="48" rx="12" fill="#265661"/><g fill="#f3d6a6"><path d="M24 7l4.6 6.4 7.8-1.2-1.2 7.8L41.6 24l-6.4 4.6 1.2 7.8-7.8-1.2L24 41.6l-4.6-6.4-7.8 1.2 1.2-7.8L6.4 24l6.4-4.6-1.2-7.8 7.8 1.2z"/></g><circle cx="24" cy="24" r="8" fill="#265661"/><circle cx="24" cy="24" r="3" fill="#f3d6a6"/></svg>';
+const LOGO='<svg viewBox="0 0 48 48" aria-hidden="true"><rect width="48" height="48" rx="12" fill="#265661"/><g transform="translate(11.04 3.68) scale(.2592)"><path d="M50,3 C53,11 60,16 68,24 C79,35 86,47 86,61 C86,77 72,87 69,99 C68,105 72,109 76,113 C83,119 86,127 86,137 C86,151 70,157 50,157 C30,157 14,151 14,137 C14,127 17,119 24,113 C28,109 32,105 31,99 C28,87 14,77 14,61 C14,47 21,35 32,24 C40,16 47,11 50,3 Z" fill="none" stroke="#f3d6a6" stroke-width="10" stroke-linejoin="round"/><path d="M50,3 C53,11 60,16 68,24 C79,35 86,47 86,61 C86,77 72,87 69,99 C68,105 72,109 76,113 C83,119 86,127 86,137 C86,151 70,157 50,157 C30,157 14,151 14,137 C14,127 17,119 24,113 C28,109 32,105 31,99 C28,87 14,77 14,61 C14,47 21,35 32,24 C40,16 47,11 50,3 Z" fill="none" stroke="#265661" stroke-width="4.4" stroke-linejoin="round"/><path transform="translate(36 54) scale(0.4261) translate(-24 -24)" d="M24 7l4.6 6.4 7.8-1.2-1.2 7.8L41.6 24l-6.4 4.6 1.2 7.8-7.8-1.2L24 41.6l-4.6-6.4-7.8 1.2 1.2-7.8L6.4 24l6.4-4.6-1.2-7.8 7.8 1.2z" fill="#f3d6a6"/><path transform="translate(64 54) scale(0.4261) translate(-24 -24)" d="M24 7l4.6 6.4 7.8-1.2-1.2 7.8L41.6 24l-6.4 4.6 1.2 7.8-7.8-1.2L24 41.6l-4.6-6.4-7.8 1.2 1.2-7.8L6.4 24l6.4-4.6-1.2-7.8 7.8 1.2z" fill="#f3d6a6"/><circle cx="36" cy="54" r="2.4" fill="#265661"/><circle cx="64" cy="54" r="2.4" fill="#265661"/></g></svg>';
 const GLOGO='<svg viewBox="0 0 48 48" width="20" height="20" aria-hidden="true"><path fill="#FFC107" d="M43.6 20.5H42V20H24v8h11.3C33.7 32.7 29.2 36 24 36c-6.6 0-12-5.4-12-12s5.4-12 12-12c3.1 0 5.8 1.2 7.9 3.1l5.7-5.7C34 6.1 29.3 4 24 4 12.9 4 4 12.9 4 24s8.9 20 20 20 20-8.9 20-20c0-1.3-.1-2.4-.4-3.5z"/><path fill="#FF3D00" d="M6.3 14.7l6.6 4.8C14.7 15.1 19 12 24 12c3.1 0 5.8 1.2 7.9 3.1l5.7-5.7C34 6.1 29.3 4 24 4 16.3 4 9.7 8.3 6.3 14.7z"/><path fill="#4CAF50" d="M24 44c5.2 0 9.9-2 13.4-5.2l-6.2-5.2C29.2 35.1 26.7 36 24 36c-5.2 0-9.6-3.3-11.3-8l-6.5 5C9.5 39.6 16.2 44 24 44z"/><path fill="#1976D2" d="M43.6 20.5H42V20H24v8h11.3c-.8 2.2-2.2 4.2-4.1 5.6l6.2 5.2C37 39.2 44 34 44 24c0-1.3-.1-2.4-.4-3.5z"/></svg>';
 async function authSubmit(){
   const v=id=>(document.getElementById(id)||{}).value||'';
@@ -1442,17 +1449,15 @@ const ARROW='<svg viewBox="0 0 16 16"><path d="M12 12 4 4M4 10V4h6"/></svg>';
 const MENU=[
  {id:'method',t:'المنهج المحمدي',ic:'<path d="M24 6l4.5 6.5L36 11l-1.5 7.5L41 24l-6.5 5.5L36 37l-7.5-1.5L24 42l-4.5-6.5L12 37l1.5-7.5L7 24l6.5-5.5L12 11l7.5 1.5z"/><path d="M18 24l6-6 6 6-6 6z"/>'},
  {id:'tazkiya',t:'التزكية',ic:'<path d="M14 40V22c0-2 3-2 3 0v-8c0-2 3-2 3 0v-2c0-2 3-2 3 0v14"/><path d="M34 40V22c0-2-3-2-3 0v-8c0-2-3-2-3 0v-2c0-2-3-2-3 0v14"/><path d="M12 40h11M25 40h11M14 44h9M25 44h9"/>'},
- {id:'sura',t:'حالة قلبك',ic:'<circle cx="24" cy="12" r="4.5"/><path d="M20 8.5c1-2 7-2 8 0"/><path d="M15 42V27c0-5 4-9 9-9s9 4 9 9v15"/><path d="M20 26l4 6 4-6"/>'},
- {id:'muraqabat',t:'حالتك الروحية اليومية',ic:'<circle cx="24" cy="11" r="4"/><path d="M16 42V26c0-5 3.5-9 8-9s8 4 8 9v16"/><path d="M19 28l5 4 5-4M24 32v10"/>'},
+ {id:'ruhi',t:'بياناتك الروحية',ic:'<circle cx="24" cy="12" r="4.5"/><path d="M20 8.5c1-2 7-2 8 0"/><path d="M15 42V27c0-5 4-9 9-9s9 4 9 9v15"/><path d="M20 26l4 6 4-6"/>'},
  {id:'aamal',t:'الأعمال',ic:'<path d="M8 36h32M10 36c0-5 4-7 8-7h6"/><circle cx="31" cy="25" r="3.5"/><path d="M24 29l5-1 7 5"/><rect x="34" y="31" width="8" height="5" rx="1"/>'},
- {id:'muhasaba',t:'محاسبة اليوم',ic:'<path d="M14 8h20v32H14z"/><path d="M19 16h10M19 22h10M19 28h6"/><path d="M27 33l3 3 6-7"/>'},
  {id:'taammulat',t:'تأملات',ic:'<circle cx="24" cy="20" r="9"/><path d="M24 11v-4M24 33v-4M15 20h-4M37 20h-4"/><path d="M10 41c3-5 8-8 14-8s11 3 14 8"/>'},
  {id:'admin',t:'لوحة الإدارة',ic:'<path d="M24 5l15 6v11c0 9.5-6.4 17.4-15 21-8.6-3.6-15-11.5-15-21V11z"/><path d="M17.5 24l4.5 4.5 8.5-9"/>'},
 ,
  {id:'about',t:'عن التطبيق',ic:'<circle cx="24" cy="24" r="16"/><path d="M24 22v10"/><circle cx="24" cy="16.5" r="1.2"/>'}
 ];
-const TITLES={method:'المنهج المحمدي',tazkiya:'التزكية',muraqabat:'حالتك الروحية اليومية',sura:'حالة قلبك',aamal:'الأعمال',dhikr_run:'الذكر الشخصي',adh_sabah:'أذكار الصباح',adh_masa:'أذكار المساء',install:'تثبيت التطبيق',notif:'التنبيهات',profile:'الملف الشخصي',admin:'لوحة الإدارة',taammulat:'تأملات',mraqib:'مراقبات',munajat:'مناجاة',muhasaba:'محاسبة اليوم',about:'عن التطبيق',tahlil:'تحليل الزلّات'};
-const VERSES={dhikr_run:'﴿أَلَا بِذِكْرِ اللَّهِ تَطْمَئِنُّ الْقُلُوبُ﴾',adh_sabah:'﴿'+ADHKAR.verse.slice(ADHKAR.verse.indexOf('وَسَ'))+'﴾',adh_masa:'﴿'+ADHKAR.verse.slice(ADHKAR.verse.indexOf('وَسَ'))+'﴾',install:'﴿وَمَا تَوْفِيقِي إِلَّا بِاللَّهِ﴾',method:'«أن تعبد الله كأنك تراه»',tazkiya:'﴿قَدْ أَفْلَحَ مَن زَكَّاهَا﴾',muraqabat:'﴿أَلَمْ يَعْلَم بِأَنَّ اللَّهَ يَرَىٰ﴾',sura:'﴿بَلِ الْإِنسَانُ عَلَىٰ نَفْسِهِ بَصِيرَةٌ﴾',aamal:'«أحبّ الأعمال إلى الله أدومها وإن قلّ»',notif:'﴿وَذَكِّرْ فَإِنَّ الذِّكْرَىٰ تَنفَعُ الْمُؤْمِنِينَ﴾',profile:'﴿وَالَّذِينَ جَاهَدُوا فِينَا لَنَهْدِيَنَّهُمْ سُبُلَنَا﴾',admin:'﴿إِنْ أُرِيدُ إِلَّا الْإِصْلَاحَ مَا اسْتَطَعْتُ﴾',taammulat:'﴿الَّذِينَ يَذْكُرُونَ اللَّهَ قِيَامًا وَقُعُودًا وَعَلَىٰ جُنُوبِهِمْ وَيَتَفَكَّرُونَ﴾',mraqib:'﴿أَلَمْ يَعْلَم بِأَنَّ اللَّهَ يَرَىٰ﴾',munajat:'﴿وَإِذَا سَأَلَكَ عِبَادِي عَنِّي فَإِنِّي قَرِيبٌ﴾',muhasaba:'﴿وَلْتَنظُرْ نَفْسٌ مَّا قَدَّمَتْ لِغَدٍ﴾',about:'﴿وَمَا تَوْفِيقِي إِلَّا بِاللَّهِ﴾',tahlil:'﴿إِنَّ اللَّهَ لَا يُغَيِّرُ مَا بِقَوْمٍ حَتَّىٰ يُغَيِّرُوا مَا بِأَنفُسِهِمْ﴾'};
+const TITLES={method:'المنهج المحمدي',tazkiya:'التزكية',muraqabat:'حالتك الروحية اليومية',sura:'حالة قلبك',aamal:'الأعمال',dhikr_run:'الذكر الشخصي',adh_sabah:'أذكار الصباح',adh_masa:'أذكار المساء',install:'تثبيت التطبيق',notif:'التنبيهات',profile:'الملف الشخصي',admin:'لوحة الإدارة',taammulat:'تأملات',mraqib:'مراقبات',munajat:'مناجاة',muhasaba:'محاسبة اليوم',ruhi:'بياناتك الروحية',about:'عن التطبيق',tahlil:'تحليل الزلّات'};
+const VERSES={dhikr_run:'﴿أَلَا بِذِكْرِ اللَّهِ تَطْمَئِنُّ الْقُلُوبُ﴾',adh_sabah:'﴿'+ADHKAR.verse.slice(ADHKAR.verse.indexOf('وَسَ'))+'﴾',adh_masa:'﴿'+ADHKAR.verse.slice(ADHKAR.verse.indexOf('وَسَ'))+'﴾',install:'﴿وَمَا تَوْفِيقِي إِلَّا بِاللَّهِ﴾',method:'«أن تعبد الله كأنك تراه»',tazkiya:'﴿قَدْ أَفْلَحَ مَن زَكَّاهَا﴾',muraqabat:'﴿أَلَمْ يَعْلَم بِأَنَّ اللَّهَ يَرَىٰ﴾',sura:'﴿بَلِ الْإِنسَانُ عَلَىٰ نَفْسِهِ بَصِيرَةٌ﴾',aamal:'«أحبّ الأعمال إلى الله أدومها وإن قلّ»',notif:'﴿وَذَكِّرْ فَإِنَّ الذِّكْرَىٰ تَنفَعُ الْمُؤْمِنِينَ﴾',profile:'﴿وَالَّذِينَ جَاهَدُوا فِينَا لَنَهْدِيَنَّهُمْ سُبُلَنَا﴾',admin:'﴿إِنْ أُرِيدُ إِلَّا الْإِصْلَاحَ مَا اسْتَطَعْتُ﴾',taammulat:'﴿الَّذِينَ يَذْكُرُونَ اللَّهَ قِيَامًا وَقُعُودًا وَعَلَىٰ جُنُوبِهِمْ وَيَتَفَكَّرُونَ﴾',mraqib:'﴿أَلَمْ يَعْلَم بِأَنَّ اللَّهَ يَرَىٰ﴾',munajat:'﴿وَإِذَا سَأَلَكَ عِبَادِي عَنِّي فَإِنِّي قَرِيبٌ﴾',muhasaba:'﴿وَلْتَنظُرْ نَفْسٌ مَّا قَدَّمَتْ لِغَدٍ﴾',ruhi:'﴿بَلِ الْإِنسَانُ عَلَىٰ نَفْسِهِ بَصِيرَةٌ﴾',about:'﴿وَمَا تَوْفِيقِي إِلَّا بِاللَّهِ﴾',tahlil:'﴿إِنَّ اللَّهَ لَا يُغَيِّرُ مَا بِقَوْمٍ حَتَّىٰ يُغَيِّرُوا مَا بِأَنفُسِهِمْ﴾'};
 
 const AVATAR='<svg viewBox="0 0 52 52"><rect width="52" height="52" fill="#eceae6"/><circle cx="26" cy="20" r="9" fill="#c9c4bc"/><path d="M8 52c2-11 9-16 18-16s16 5 18 16z" fill="#c9c4bc"/></svg>';
 function avatarImg(){const src=S.photo||(AUTH.user&&AUTH.user.photoURL)||'';
@@ -1480,11 +1485,11 @@ function heroHome(){
   </header>`;
 }
 function heroSub(id){
-  return `<header class="hero compact"><div class="topbar"><button class="iconbtn" data-go="${id.startsWith('adh_')||id==='dhikr_run'?'aamal':isMedia(id)?'taammulat':id==='tahlil'?'tazkiya':'home'}" aria-label="رجوع">${BACK}</button><h1>${TITLES[id]}</h1><span></span></div><p class="verse" dir="rtl" lang="ar">${VERSES[id]}</p></header>`;
+  return `<header class="hero compact"><div class="topbar"><button class="iconbtn" data-go="${id.startsWith('adh_')||id==='dhikr_run'?'aamal':isMedia(id)?'taammulat':'home'}" aria-label="رجوع">${BACK}</button><h1>${TITLES[id]}</h1><span></span></div><p class="verse" dir="rtl" lang="ar">${VERSES[id]}</p></header>`;
 }
 function viewHome(){
   const L=dayLog(),p=pendingOrgans().length;
-  const subs={install:isStandalone()?'مثبّت على شاشتك ✓':'افتحه كتطبيق من شاشة هاتفك',method:'الطريقة المحمدية: الأصول والأبواب وطريق التحقق',tazkiya:prepState().status==='active'?`المرحلة التمهيدية · ${Math.min(prepDays(),30)} من 30 · ${activeOrgans().length} جوارح قيد العمل`:`تزكية الجوارح · ${activeOrgans().length} قيد العمل`,muraqabat:`صورتك النورانية · ${litCount()} من 4 أنوار مضيئة`,sura:`مجاري القلب · ${ORGANS.filter(g=>['tanwir','done'].includes(S.organs[g.id].phase)).length} من ${ORGANS.length} مغلقة`,aamal:`${L.awrad.length} من ${AWRAD.length} أوراد اليوم`,admin:'المستعملون، الرسائل، الأعمال المقترحة',muhasaba:(mhState()[nowStr()]||{}).saved?'سجّلت محاسبة اليوم ✓':'سؤالان قبل النوم: ماذا حفظت؟ وأين زللت؟',about:'تثبيت التطبيق، والتذكيرات، والخصوصية، وراسلنا',taammulat:`المراقبات والمناجاة · ${(S.wared||[]).length} واردات مدوّنة`};
+  const subs={install:isStandalone()?'مثبّت على شاشتك ✓':'افتحه كتطبيق من شاشة هاتفك',method:'الطريقة المحمدية: الأصول والأبواب وطريق التحقق',tazkiya:prepState().status==='active'?`المرحلة التمهيدية · ${Math.min(prepDays(),30)} من 30 · ${activeOrgans().length} جوارح قيد العمل`:`تزكية الجوارح · ${activeOrgans().length} قيد العمل`,muraqabat:`صورتك النورانية · ${litCount()} من 4 أنوار مضيئة`,sura:`مجاري القلب · ${ORGANS.filter(g=>['tanwir','done'].includes(S.organs[g.id].phase)).length} من ${ORGANS.length} مغلقة`,aamal:`${L.awrad.length} من ${AWRAD.length} أوراد اليوم`,admin:'المستعملون، الرسائل، الأعمال المقترحة',ruhi:`${litCount()} من 4 أنوار مضيئة · ${ORGANS.filter(g=>['tanwir','done'].includes(S.organs[g.id].phase)).length} من ${ORGANS.length} مجاري مغلقة`,about:'تثبيت التطبيق، والتذكيرات، والخصوصية، وراسلنا',taammulat:`المراقبات والمناجاة · ${(S.wared||[]).length} واردات مدوّنة`};
   const banner=announcementBanner()+(AUTH.state==='local'?`<p class="muted" style="margin-bottom:12px">وضع محلي: تُحفظ بياناتك في هذا المتصفح فقط.</p>`:'')+(S.demo?`<p class="muted" style="margin-bottom:12px">تعرض الأقسام بيانات تجريبية. يمكنك البدء من الصفر من الملف الشخصي.</p>`:'');
   return heroHome()+`<main class="sheet">${banner}<div class="menu">${MENU.filter(m=>m.id!=='admin'||isAdmin()).map(m=>`<button class="mcard" data-go="${m.id}"><span class="ic"><svg viewBox="0 0 48 48">${m.ic}</svg></span><span class="tx">${m.t}<small>${subs[m.id]}</small></span><span class="go">${ARROW}</span></button>`).join('')}</div></main>`;
 }
@@ -1640,7 +1645,7 @@ function mqBind(){const v=document.getElementById('mqVideo'),w=document.getEleme
   sync()}
 function mqToggle(){const v=document.getElementById('mqVideo');if(!v)return;if(v.paused){v.play().catch(()=>{});keepAwake(true)}else{v.pause();keepAwake(false)}}
 function viewTazkiya(){
-  return `<section>${prepCard()}<p class="muted">لكل جارحة مرحلتان: تطهير ثلاثين يومًا متتالية بلا زلة، ثم تنوير ثلاثين يومًا باستعمالها في الطاعة على السنة. الزلة أو اليوم الفائت يعيد العدّ من البداية.</p>${ORGANS.map(g=>organCard(g,true)).join('')}<div class="btns" style="margin-top:14px"><button class="btn" data-go="tahlil">تحليل زلّاتك: ما الذي يتكرر؟</button></div></section>`;
+  return `<section>${prepCard()}<p class="muted">لكل جارحة مرحلتان: تطهير ثلاثين يومًا متتالية بلا زلة، ثم تنوير ثلاثين يومًا باستعمالها في الطاعة على السنة. الزلة أو اليوم الفائت يعيد العدّ من البداية.</p>${ORGANS.map(g=>organCard(g,true)).join('')}</section><div id="mhSec"><section><div class="sh"><h2>محاسبة اليوم</h2></div></section>${viewMuhasaba()}</div>`;
 }
 /* ---------- daily self-review (muhasaba) ---------- */
 function mhState(){if(!S.muhasaba)S.muhasaba={};return S.muhasaba}
@@ -1661,6 +1666,11 @@ function viewMuhasaba(){
    ${past.length?`<div class="box">${past.map(d=>{const x=M[d];return `<details class="mh-past"><summary><b>${fmtD(d)}</b></summary>${x.good?`<p><span class="mh-tag ok">حفظت</span> <span class="notr" dir="auto">${esc(x.good)}</span></p>`:''}${x.slip?`<p><span class="mh-tag bad">زللت</span> <span class="notr" dir="auto">${esc(x.slip)}</span></p>`:''}</details>`}).join('')}</div>`:'<p class="muted">لم تسجّل محاسبة سابقة بعد. تظهر هنا محاسباتك يومًا بعد يوم.</p>'}</section>`;
 }
 
+/* ---------- your spiritual data: daily state, heart, slip analysis ---------- */
+let ruhiTab='muraqabat';
+const RUHI_TABS=[['muraqabat','الحالة اليومية'],['sura','حالة القلب'],['tahlil','تحليل الزلّات']];
+function viewRuhi(){const t=RUHI_TABS.some(x=>x[0]===ruhiTab)?ruhiTab:'muraqabat';
+  return `<div class="rtabs" role="tablist">${RUHI_TABS.map(([k,l])=>`<button role="tab" aria-selected="${k===t}" class="${k===t?'on':''}" data-rtab="${k}">${l}</button>`).join('')}</div>${VIEWS[t]()}`}
 /* ---------- slip analysis ---------- */
 const SLIP_CATS=[
  {id:'majlis',t:'المجالس والصحبة',w:['مجلس','مجالس','جلسه','جلسة','اصدقاء','اصحاب','صديق','زملاء','زميل','صحبه','رفقه','رفاق','friends','amis']},
@@ -3791,7 +3801,7 @@ function viewDhikrRun(){
 document.addEventListener('pointerdown',e=>{if(screen!=='dhikr_run'||!run||run.done)return;if(e.target.closest('button'))return;if(!e.target.closest('.dr,#app'))return;e.preventDefault();togglePause()});
 document.addEventListener('toggle',e=>{if(e.target.classList&&e.target.classList.contains('dl-det'))dlOpen=e.target.open},true);
 document.addEventListener('visibilitychange',()=>{if(document.visibilityState==='visible'&&run&&!run.done){if(!run.paused)tick();if(screen==='dhikr_run')keepAwake(true)}});
-const VIEWS={method:viewMethod,tazkiya:viewTazkiya,muraqabat:viewMuraqabat,sura:viewSura,aamal:viewAamal,dhikr_run:viewDhikrRun,adh_sabah:()=>viewAdhkar('sabah'),adh_masa:()=>viewAdhkar('masa'),install:viewInstall,notif:viewNotif,profile:viewProfile,admin:viewAdmin,taammulat:viewTaammulat,muhasaba:viewMuhasaba,about:viewAbout,tahlil:viewTahlil,mraqib:viewMraqib,munajat:viewMraqib};
+const VIEWS={method:viewMethod,tazkiya:viewTazkiya,muraqabat:viewMuraqabat,sura:viewSura,aamal:viewAamal,dhikr_run:viewDhikrRun,adh_sabah:()=>viewAdhkar('sabah'),adh_masa:()=>viewAdhkar('masa'),install:viewInstall,notif:viewNotif,profile:viewProfile,admin:viewAdmin,taammulat:viewTaammulat,muhasaba:viewMuhasaba,about:viewAbout,tahlil:viewTahlil,ruhi:viewRuhi,mraqib:viewMraqib,munajat:viewMraqib};
 function render(){
   const app=document.getElementById('app'),nav0=document.querySelector('nav.tabs');
   if(gated()){app.innerHTML=viewAuth();nav0.hidden=true;const rtl=LANG==='ar';app.dir=rtl?'rtl':'ltr';app.lang=LANG;document.documentElement.lang=LANG;document.documentElement.dir=rtl?'rtl':'ltr';i18nApply(app);return}
@@ -3812,7 +3822,8 @@ function render(){
   if(screen==='dhikr_run')paintRun();
   document.getElementById('badge').hidden=!(pendingOrgans().length||prepPendingToday()||!lights().halo);
 }
-function go(s){if(s!==screen||!isMedia(s)){const v=document.getElementById('mqVideo');if(v&&!v.paused){v.pause();keepAwake(false)}}if(s!=='dhikr_run'&&run&&!run.done&&screen==='dhikr_run'){/* keep running in background */}screen=s;lightConfirm=null;confirmFor=null;confirmReset=false;redoFor=null;render();window.scrollTo(0,0);adhAwake()}
+function go(s){if(s==='sura'||s==='muraqabat'||s==='tahlil'){ruhiTab=s;s='ruhi'}let toMh=false;if(s==='muhasaba'){s='tazkiya';toMh=true}if(toMh){goRaw(s);setTimeout(()=>{const e=document.getElementById('mhSec');if(e)e.scrollIntoView({block:'start'})},60);return}goRaw(s)}
+function goRaw(s){if(s!==screen||!isMedia(s)){const v=document.getElementById('mqVideo');if(v&&!v.paused){v.pause();keepAwake(false)}}if(s!=='dhikr_run'&&run&&!run.done&&screen==='dhikr_run'){/* keep running in background */}screen=s;lightConfirm=null;confirmFor=null;confirmReset=false;redoFor=null;render();window.scrollTo(0,0);adhAwake()}
 /* keep the screen on while reading the morning / evening adhkar */
 function adhAwake(){const adh=screen==='adh_sabah'||screen==='adh_masa',v=document.getElementById('mqVideo');
   if(adh)keepAwake(true);else if(!(v&&!v.paused)&&!(run&&!run.done&&!run.paused))keepAwake(false)}
@@ -3828,6 +3839,7 @@ document.addEventListener('click',e=>{
   const t=e.target.closest('button');if(!t)return;const d=t.dataset;
   if(d.amode||d.google||d.signout||d.resend||d.verified||d.delacct||d.delno||d.delyes||d.adminreload||d.adpub||d.adhide||d.adxadd||d.adxdel!==undefined||d.anndismiss!==undefined){authClick(d);return}
   if(d.ob){obClick(d.ob);return}
+  if(d.rtab){ruhiTab=d.rtab;render();return}
   if(d.mhsave){const M=mhState(),k=nowStr(),g=(document.getElementById('mh-good').value||'').trim(),sl=(document.getElementById('mh-slip').value||'').trim();
     if(!g&&!sl){mhMsg='اكتب ولو سطرًا واحدًا.';render();setTimeout(()=>{mhMsg=''},3000);return}
     M[k]={good:g,slip:sl,saved:Date.now()};save();mhMsg='سُجّلت محاسبة اليوم ✓ تقبّل الله منك.';render();setTimeout(()=>{mhMsg=''},4000);return}
@@ -3993,7 +4005,7 @@ document.addEventListener('input',e=>{
   if(e.target.id==='pname'){S.name=e.target.value;save()}
   if(e.target.id==='waredIn'){(S.waredDrafts=S.waredDrafts||{})[screen]=e.target.value;save()}
 });
-let lastSig='';setInterval(()=>{if(screen!=='muraqabat'||document.activeElement&&document.activeElement.id==='dhikrText')return;const l=lights(),sig=[l.p.key,l.p.kind,l.halo,l.head,l.heart,l.body].join();if(lastSig&&sig!==lastSig)render();lastSig=sig},30000);
+let lastSig='';setInterval(()=>{if(!(screen==='ruhi'&&ruhiTab==='muraqabat')||document.activeElement&&document.activeElement.id==='dhikrText')return;const l=lights(),sig=[l.p.key,l.p.kind,l.halo,l.head,l.heart,l.body].join();if(lastSig&&sig!==lastSig)render();lastSig=sig},30000);
 setInterval(()=>{const c=document.getElementById('clock');if(c){const n=new Date();c.textContent=pad(n.getHours())+':'+pad(n.getMinutes())}},15000);
 render();
 setTimeout(()=>onFbFail(),navigator.onLine===false?3000:15000);

diff --git a/sw.js b/sw.js
@@ -1,4 +1,4 @@
-const CACHE='murshid-1791934986',LIB='murshid-lib-v1',MEDIA='murshid-media-v1';
+const CACHE='murshid-1791935885',LIB='murshid-lib-v1',MEDIA='murshid-media-v1';
 const SHELL=['./','index.html','manifest.webmanifest','icon-192.png','icon-512.png','maskable-512.png','apple-touch-icon.png','maiya.jpg','maiya-wide.jpg'];
 const SDK='https://www.gstatic.com/firebasejs/10.12.2/';
 const LIBS=[SDK+'firebase-app.js',SDK+'firebase-auth.js',SDK+'firebase-firestore.js',SDK+'firebase-messaging.js',
